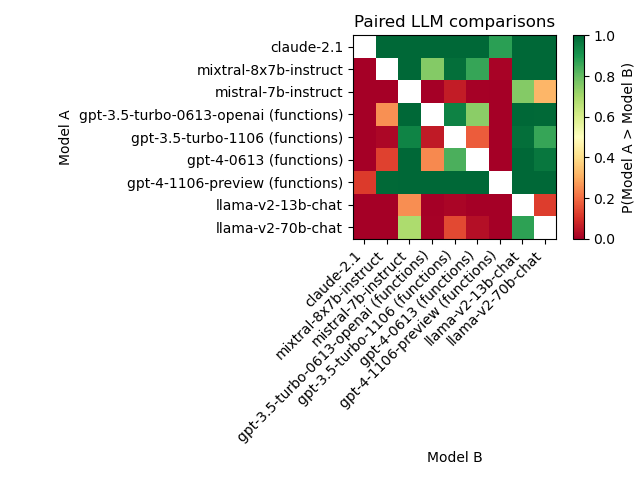
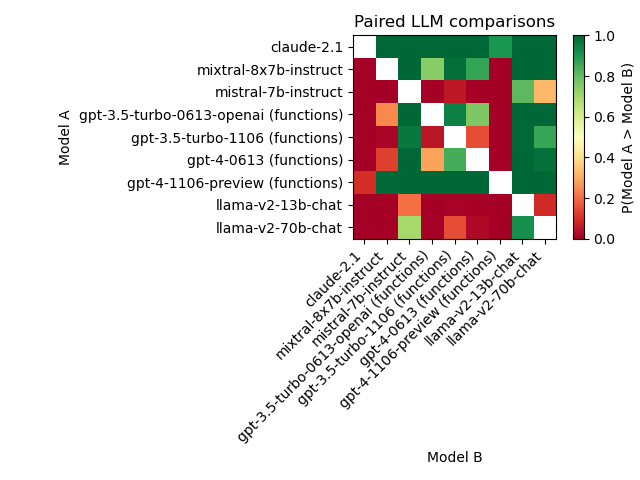
Add 2D Gaussian model inference

Changed region(s): [[0.7812, 0.1562, 0.8438, 0.2188], [0.6562, 0.2812, 0.7188, 0.375], [0.625, 0.4062, 0.6562, 0.4688]]

diff --git a/src/bayes_evals/bayes_evals.py b/src/bayes_evals/bayes_evals.py
@@ -3,6 +3,10 @@ import scipy.stats as stats
 import pandas as pd
 import matplotlib.pyplot as plt
 
+# for bivariate normal CDF
+from scipy.special import erf
+from scipy.stats import norm
+
 __all__ = [
     'independent_intervals',
     'independent_comparisons',
@@ -170,18 +174,50 @@ def paired_comparisons(df, num_samples=10_000):
     table = np.column_stack([S, T, U, V])
     assert table.shape == (M*M, 4)
 
-    dir_post = np.zeros((M*M, num_samples, 4))
-    for comparison in range(M*M):
-        dir_post[comparison] = stats.dirichlet(table[comparison] + 1).rvs(size=(num_samples,))
+    # Importance sampling based on Bivariate Gaussian model
+    # sample a bunch of theta_As, theta_Bs and rhos from the proposal
+    theta_As = np.random.beta(1, 1, size=(M*M, num_samples))
+    theta_Bs = np.random.beta(1, 1, size=(M*M, num_samples))
+    rhos     = np.random.uniform(-1, 1, size=(M*M, num_samples))
 
-    assert np.allclose(dir_post.sum(-1), 1)
+    diff = theta_As - theta_Bs
 
-    # theta_As_post = dir_post[..., (0,1)].sum(-1)  # S + T
-    # theta_Bs_post = dir_post[..., (0,2)].sum(-1)  # S + U
-    # diff_post = theta_As_post - theta_Bs_post     # (S + T) - (S + U) = T - U
-    diff_post = dir_post[..., 1] - dir_post[..., 2]
+    # calculate the mus for the 2D Gaussian (using the pdf of the bivariate normal)
+    mu_A = stats.norm(0,1).ppf(theta_As)
+    mu_B = stats.norm(0,1).ppf(theta_Bs)
+    assert mu_A.shape == mu_B.shape == (M*M, num_samples)
+
+    # calculate the probabilities of each case
+    theta_V = binorm_cdf(0, 0, mu_A, mu_B, 1, 1, rhos)
+    theta_S = theta_As + theta_Bs + theta_V - 1
+    theta_T = 1 - theta_Bs - theta_V
+    theta_U = 1 - theta_As - theta_V
+
+    # calculate the log likelihoods
+    # (with np.errstate to ignore nan-based errors (if we have log(nan)=nan we don't care))
+    with np.errstate(divide='ignore', invalid='ignore'):
+        log_likelihoods = S[:,None] * np.log(theta_S) + T[:,None] * np.log(theta_T) + U[:,None] * np.log(theta_U) + V[:,None] * np.log(theta_V)
+    assert log_likelihoods.shape == (M*M, num_samples)
+
+    # (which are equal to the weights since proposal = prior)
+    log_weights = log_likelihoods
+
+    # normalise the weights (with nan being probabilty 0)
+    max_log_weights = np.nanmax(log_weights, axis=-1, keepdims=True)
+    weights = np.exp(log_weights - max_log_weights)
+    weights[np.isnan(weights)] = 0
+    weights /= weights.sum(axis=-1, keepdims=True)
+    assert weights.shape == (M*M, num_samples)
+
+    # Get posterior samples
+    diff_post = np.zeros((M*M, num_samples))
+        
+    for r in range(M*M):
+        diff_post[r] = diff[r, np.random.choice(num_samples, size=num_samples, replace=True, p=weights[r])]
+
     assert diff_post.shape == (M*M, num_samples)
 
+    # calculate the posterior probability of the difference being greater than 0
     posterior_prob = (diff_post > 0).mean(-1) 
     assert posterior_prob.shape == (M*M,)
 
@@ -193,6 +229,175 @@ def paired_comparisons(df, num_samples=10_000):
     comparison_matrix_df = pd.DataFrame(comparison_matrix, index=model_names, columns=model_names)
 
     return comparison_matrix_df
+
+## Bivariate Normal CDF
+# using jax implementation: https://github.com/jax-ml/jax/issues/10562
+# from the paper "A simple approximation for the bivariate normal integral", Tsay & Ke (2021)
+# https://www.tandfonline.com/doi/full/10.1080/03610918.2021.1884718
+
+cdf1d = norm.cdf
+
+c1 = -1.0950081470333
+c2 = -0.75651138383854
+sqrt2 = 1.4142135623730951
+
+def case1(p, q, rho, a, b):
+    a2 = a * a
+    b2 = b * b
+
+    line11 = 0.5 * (erf(q / sqrt2) + erf(b / (sqrt2 * a)))
+    aux1 = a2 * c1 * c1 - 2 * sqrt2 * b * c1 + 2 * b2 * c2
+    aux2 = 4 * (1 - a2 * c2)
+    line12 = (1.0 / (4 * np.sqrt(1 - a2 * c2))) * np.exp(aux1 / aux2)
+
+    line21 = 1 - erf((sqrt2 * b - a2 * c1) / (2 * a * np.sqrt(1 - a2 * c2)))
+    aux3 = a2 * c1 * c1 + 2 * sqrt2 * b * c1 + 2 * b2 * c2
+    line22 = (1.0 / (4 * np.sqrt(1 - a2 * c2))) * np.exp(aux3 / aux2)
+
+    aux4 = sqrt2 * q - sqrt2 * a2 * c2 * q - sqrt2 * a * b * c2 - a * c1
+    aux5 = 2 * np.sqrt(1 - a2 * c2)
+    line31 = erf(aux4 / aux5)
+    line32 = erf((a2 * c1 + sqrt2 * b) / (2 * a * np.sqrt(1 - a2 * c2)))
+
+    return line11 + (line12 * line21) - (line22 * (line31 + line32))
+
+def case2(p, q):
+    return cdf1d(p) * cdf1d(q)
+
+def case3(p, q, rho, a, b):
+    a2 = a * a
+    b2 = b * b
+
+    aux1 = a2 * c1 * c1 - 2 * sqrt2 * b * c1 + 2 * b2 * c2
+    aux2 = 4 * (1 - a2 * c2)
+    line11 = (1.0 / (4 * np.sqrt(1 - a2 * c2))) * np.exp(aux1 / aux2)
+
+    aux3 = sqrt2 * q - sqrt2 * a2 * c2 * q - sqrt2 * a * b * c2 + a * c1
+    aux4 = 2 * np.sqrt(1 - a2 * c2)
+    line12 = 1.0 + erf(aux3 / aux4)
+
+    return line11 * line12
+
+def case4(p, q, rho, a, b):
+    a2 = a * a
+    b2 = b * b
+
+    line11 = 0.5 + 0.5 * erf(q / sqrt2)
+    aux1 = a2 * c1 * c1 + 2 * sqrt2 * b * c1 + 2 * b2 * c2
+    aux2 = 4 * (1 - a2 * c2)
+    line12 = (1.0 / (4 * np.sqrt(1 - a2 * c2))) * np.exp(aux1 / aux2)
+
+    aux3 = sqrt2 * q - sqrt2 * a2 * c2 * q - sqrt2 * a * b * c2 - a * c1
+    aux4 = 2 * np.sqrt(1 - a2 * c2)
+    line2 = 1.0 + erf(aux3 / aux4)
+
+    return line11 - (line12 * line2)
+
+def case5(p, q, rho, a, b):
+    a2 = a * a
+    b2 = b * b
+
+    line11 = 0.5 - 0.5 * erf(b / (sqrt2 * a))
+    aux1 = a2 * c1 * c1 + 2 * sqrt2 * b * c1 + 2 * b2 * c2
+    aux2 = 4 * (1 - a2 * c2)
+    line12 = (1.0 / (4 * np.sqrt(1 - a2 * c2))) * np.exp(aux1 / aux2)
+
+    line21 = 1 - erf((sqrt2 * b + a2 * c1) / (2 * a * np.sqrt(1 - a2 * c2)))
+    aux3 = a2 * c1 * c1 - 2 * sqrt2 * b * c1 + 2 * b2 * c2
+    line22 = (1.0 / (4 * np.sqrt(1 - a2 * c2))) * np.exp(aux3 / aux2)
+
+    aux4 = sqrt2 * q - sqrt2 * a2 * c2 * q - sqrt2 * a * b * c2 + a * c1
+    aux5 = 2 * np.sqrt(1 - a2 * c2)
+    line31 = erf(aux4 / aux5)
+    line32 = erf((-a2 * c1 + sqrt2 * b) / (2 * a * np.sqrt(1 - a2 * c2)))
+
+    return line11 - (line12 * line21) + line22 * (line31 + line32)
+
+def binorm_cdf(x1, x2, mu1, mu2, sigma1, sigma2, rho):
+    '''
+    Compute the bivariate normal CDF.
+
+    Parameters:
+    ----------
+    x1, x2: int, float, np.ndarray
+        The values at which to compute the CDF.
+    mu1, mu2: int, float, np.ndarray
+        The margianal means of the normal distribution.
+    sigma1, sigma2: int, float, np.ndarray
+        The marginal standard deviations of the normal distribution.
+    rho: int, float, np.ndarray
+        The correlation coefficient of the normal distribution.
+    '''
+    # Make sure the inputs are floats, or if ints, convert them to floats
+    # Make sure the inputs are either int, float or np.ndarray.
+    # If they're float, convert them to singleton float np.ndarrays.
+    # If they're np.ndarray, make sure they're of the same shape.
+    shape = None
+    dtype = None
+    for input_ in [x1, x2, mu1, mu2, sigma1, sigma2, rho]:
+        if isinstance(input_, np.ndarray):
+            if shape is None:
+                shape = input_.shape
+            else:
+                assert shape == input_.shape, f"All np.ndarrays must have the same shape. Got {input_.shape} and {shape}."
+            if dtype is None:
+                dtype = input_.dtype
+            else:
+                assert dtype == input_.dtype, f"All np.ndarrays must have the same dtype. Got {input_.dtype} and {dtype}."
+        else:
+            assert isinstance(input_, (int, float)), f"All inputs must be either int, float or np.ndarray. Got {type(input_)}."
+    
+    if shape is None:
+        shape = (1,)
+    if dtype is None:
+        dtype = np.float64
+
+    # Convert the inputs to np.ndarray if they're int or float
+    x1     = np.broadcast_to(np.array([float(x1)],     dtype=dtype), shape) if isinstance(x1,     (int, float)) else x1
+    x2     = np.broadcast_to(np.array([float(x2)],     dtype=dtype), shape) if isinstance(x2,     (int, float)) else x2
+    mu1    = np.broadcast_to(np.array([float(mu1)],    dtype=dtype), shape) if isinstance(mu1,    (int, float)) else mu1
+    mu2    = np.broadcast_to(np.array([float(mu2)],    dtype=dtype), shape) if isinstance(mu2,    (int, float)) else mu2
+    sigma1 = np.broadcast_to(np.array([float(sigma1)], dtype=dtype), shape) if isinstance(sigma1, (int, float)) else sigma1
+    sigma2 = np.broadcast_to(np.array([float(sigma2)], dtype=dtype), shape) if isinstance(sigma2, (int, float)) else sigma2
+    rho    = np.broadcast_to(np.array([float(rho)],    dtype=dtype), shape) if isinstance(rho,    (int, float)) else rho
+
+    p = (x1 - mu1) / sigma1
+    q = (x2 - mu2) / sigma2
+
+    a = -rho / np.sqrt(1 - rho * rho)
+    b = p / np.sqrt(1 - rho * rho)
+
+    assert a.shape == b.shape == p.shape == q.shape == rho.shape == shape, f"Shapes of a, b, p, q and rho must be the same. Got {a.shape}, {b.shape}, {p.shape}, {q.shape} and {rho.shape}."
+
+    # find the indices where each case applies
+    case1_indices = (a > 0) & (a * q + b >= 0)
+    case2_indices = (a == 0)
+    case3_indices = (a > 0) & (a * q + b < 0)
+    case4_indices = (a < 0) & (a * q + b >= 0)
+    case5_indices = (a < 0) & (a * q + b < 0)
+
+    # compute the CDF for each case
+    result = np.zeros_like(p)
+
+    result[case1_indices] = case1(p[case1_indices], q[case1_indices], rho[case1_indices], a[case1_indices], b[case1_indices])
+    result[case2_indices] = case2(p[case2_indices], q[case2_indices])
+    result[case3_indices] = case3(p[case3_indices], q[case3_indices], rho[case3_indices], a[case3_indices], b[case3_indices])
+    result[case4_indices] = case4(p[case4_indices], q[case4_indices], rho[case4_indices], a[case4_indices], b[case4_indices])
+    result[case5_indices] = case5(p[case5_indices], q[case5_indices], rho[case5_indices], a[case5_indices], b[case5_indices])
+
+    return result
+
+    # if a > 0 and a * q + b >= 0:
+    #     return case1(p, q, rho, a, b)
+    # if a == 0:
+    #     return case2(p, q)
+    # if a > 0 and a * q + b < 0:
+    #     return case3(p, q, rho, a, b)
+    # if a < 0 and a * q + b >= 0:
+    #     return case4(p, q, rho, a, b)
+    # if a < 0 and a * q + b < 0:
+    #     return case5(p, q, rho, a, b)
+
 
 ################################################################
 ## Plotting
